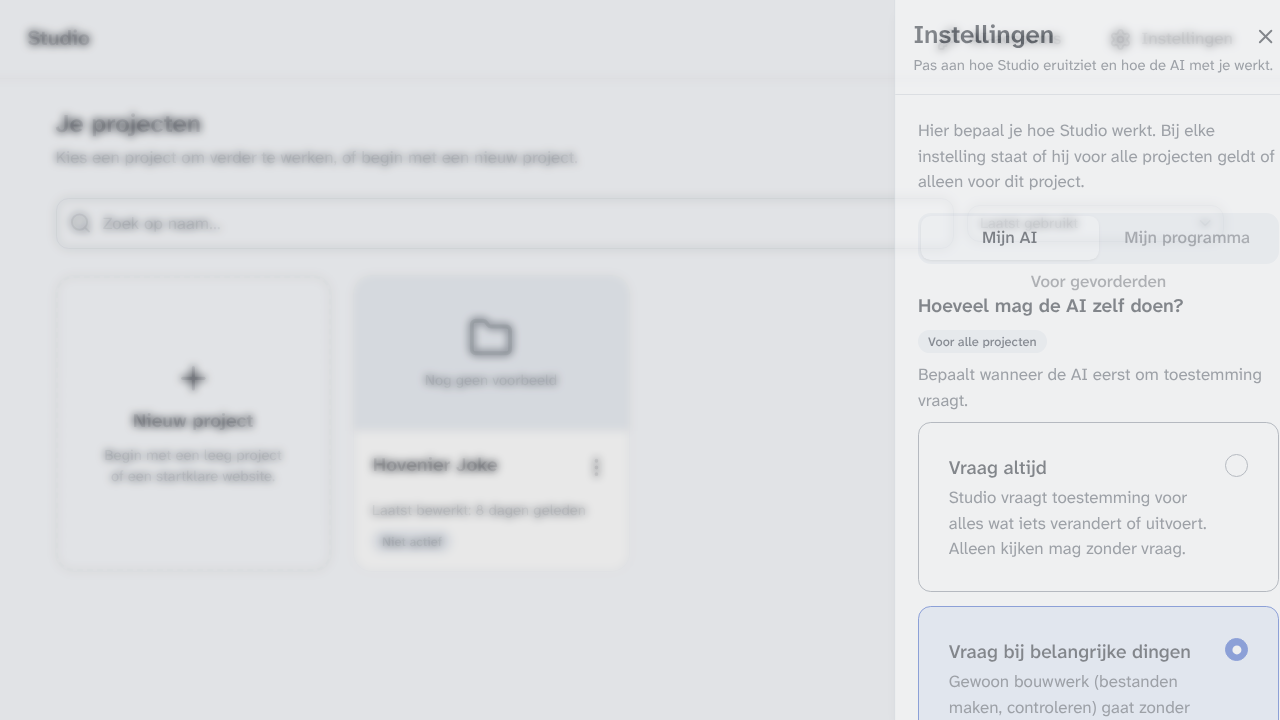
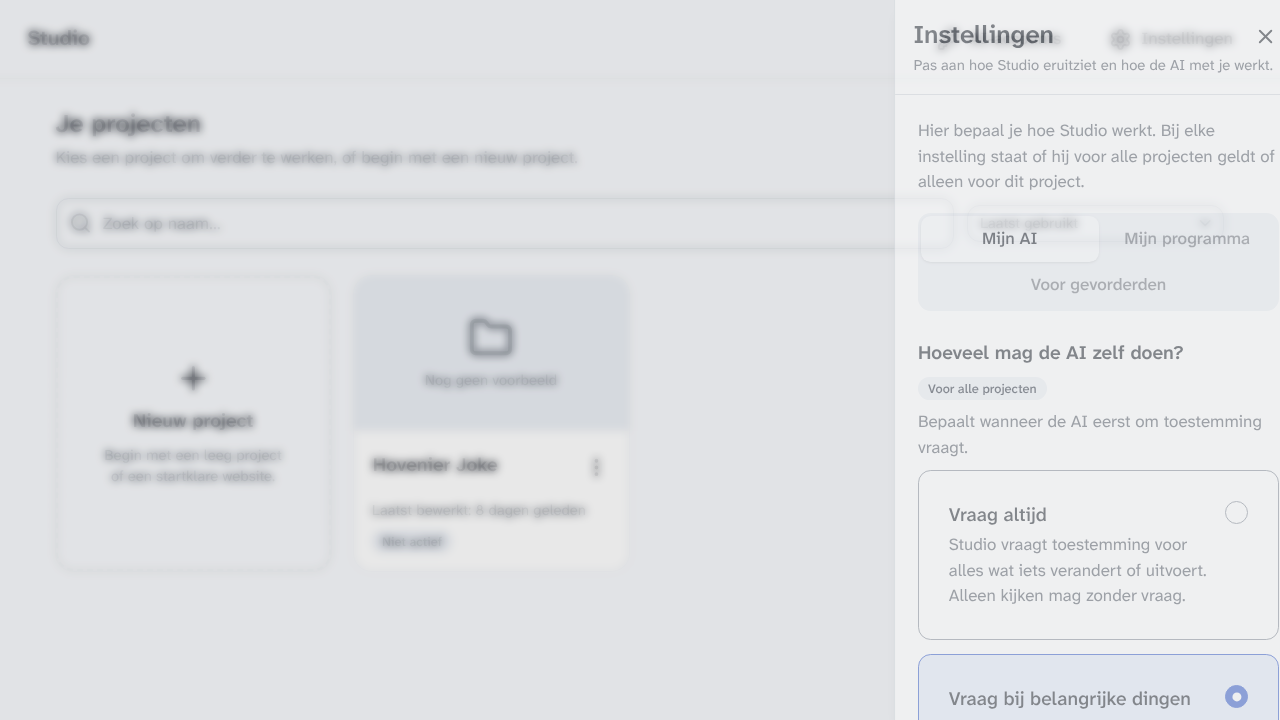
Koppelingen en Supabase: echte-app-controle (screenshots), netwerkfout via proxy als geen internet, lege regel voor nieuwe kop in PROJECT.md, dialoog scrolt op kleine schermen, resultaat in docs/koppelingen.md
Claude-Session: https://claude.ai/code/session_01EQqqEgtdBb6TXts6tMLwZj

Changed region(s): [[0.7188, 0.3667, 1.0, 0.8556], [0.7188, 0.8861, 1.0, 1.0], [0.7812, 0.3056, 0.8125, 0.3361]]

diff --git a/src/components/app/connect/VerbindDialoog.tsx b/src/components/app/connect/VerbindDialoog.tsx
@@ -102,7 +102,7 @@ function Wizard({ id, onClose, onConnected, reeks }: Props) {
 
   return (
     <Dialog open onOpenChange={(o) => !o && sluit()}>
-      <DialogContent className="max-w-lg" data-testid={`verbind-dialoog-${id}`}>
+      <DialogContent className="max-h-[90vh] max-w-lg overflow-y-auto" data-testid={`verbind-dialoog-${id}`}>
         {reeks && (
           <div data-testid="reeks-voortgang" className="space-y-1">
             <p className="text-sm font-semibold">{t("koppelingen.overzicht.voortgang", { nu: reeks.nu, totaal: reeks.totaal })}</p>

diff --git a/src-tauri/src/projectinfo.rs b/src-tauri/src/projectinfo.rs
@@ -537,7 +537,7 @@ fn section_set(dir: &Path, kop: &str, text: &str) -> Result<()> {
         v.join("\n") + "\n"
     } else {
         let blok = if text.is_empty() { String::new() } else { format!("{text}\n") };
-        format!("{}\n{kop}\n\n{blok}", md.trim_end())
+        format!("{}\n\n{kop}\n\n{blok}", md.trim_end())
     };
     fs::write(path, out)?;
     Ok(())
@@ -808,6 +808,10 @@ mod tests {
         let md = fs::read_to_string(o.path().join("PROJECT.md")).unwrap();
         assert!(md.contains("## Doel") && md.contains("Tuin") && md.contains("## Notities") && md.contains("## Gegevensopslag"));
         assert_eq!(md.matches("## Gegevensopslag").count(), 1);
+        let leeg = tempfile::tempdir().unwrap();
+        fs::write(leeg.path().join("PROJECT.md"), "# P\n\n- punt\n").unwrap();
+        storage_set(leeg.path(), "lokaal").unwrap();
+        assert!(fs::read_to_string(leeg.path().join("PROJECT.md")).unwrap().contains("- punt\n\n## Gegevensopslag"), "een lege regel voor de nieuwe kop");
         assert!(storage_set(o.path(), "anders").is_err());
         description_set(d.path(), "  Een site voor mijn tuinbedrijf.  ").unwrap();
         assert_eq!(description_get(d.path()), "Een site voor mijn tuinbedrijf.");

diff --git a/src-tauri/src/connect/http.rs b/src-tauri/src/connect/http.rs
@@ -93,7 +93,7 @@ impl UreqHttp {
 fn map_err(e: ureq::Error) -> ConnectError {
     match e {
         ureq::Error::Timeout(_) => ConnectError::Timeout,
-        ureq::Error::HostNotFound | ureq::Error::ConnectionFailed | ureq::Error::Io(_) => ConnectError::Offline,
+        ureq::Error::HostNotFound | ureq::Error::ConnectionFailed | ureq::Error::ConnectProxyFailed(_) | ureq::Error::Io(_) => ConnectError::Offline,
         _ => ConnectError::Unexpected,
     }
 }

diff --git a/docs/koppelingen.md b/docs/koppelingen.md
@@ -60,3 +60,24 @@ Voor **Vercel**, **Supabase**: niets registreren (gebruikers plakken een eigen t
 - Geen eigen server of proxy voor tokenuitwisseling.
 - Geen client-geheim in de app.
 - Geen OAuth voor Supabase en Vercel (zie hierboven).
+
+---
+
+# Resultaat: wat er is gebouwd (2026-11-18)
+
+## Welke methode per dienst werkt
+| Dienst | Methode nu | Waarom |
+|---|---|---|
+| **GitHub** | **Apparaatcode** (`oauth_device`) zodra het client-ID in `config/koppelingen.json` staat; anders **sleutel plakken** | geen geheim nodig. Dit is de enige dienst met echte OAuth. |
+| **Vercel** | **Sleutel plakken** | "Sign in with Vercel" vraagt een client-geheim en geeft geen rechten voor projecten of deployments |
+| **Supabase** | **Sleutel plakken** | OAuth voor de Management API vraagt een client-geheim; zonder geheim niet bevestigd |
+De strategie **OAuth met PKCE en terugkeer op 127.0.0.1** (`oauth_loopback_pkce`) is gebouwd en getest (één terugkeer, `state`-controle, sluit na gebruik of na 5 minuten) maar wordt nu door geen enkele dienst gebruikt.
+
+## Wat er staat
+- **Raamwerk** (`src-tauri/src/connect/`): provider-interface, kluis (OS-keychain, per dienst gescheiden), HTTP met vaste hostlijst (`api.github.com`, `github.com`, `api.vercel.com`, `api.supabase.com`), device flow, PKCE-loopback, verversen op de achtergrond (elke minuut; mislukt het dan "verlopen" met "Opnieuw verbinden"), status in SQLite (`connections`, zonder geheimen).
+- **Knop** (`VerbindKnop`): niet gekoppeld, bezig, gekoppeld (accountnaam met ✓ en menu met testen, opnieuw verbinden, ontkoppelen) en verlopen. Staat bij Online zetten (Vercel), Wat je app onthoudt (Supabase) en Eerdere versies (GitHub), en in Instellingen > Mijn programma > Koppelingen met "Alles testen" en "Alles verbinden" (met Overslaan en voortgang). Statusbolletjes via de Status-service.
+- **AI**: MCP-tools `koppelingen_status` (alleen gekoppeld ja/nee en werkt ja/nee, nooit sleutels of accountnamen) en `koppeling_voorstellen` (een kaartje met de knop in het gesprek; de gebruiker verbindt zelf).
+- **Ontkoppelen**: sleutel uit de kluis; GitHub en Vercel laten intrekken zonder geheim of token-ID niet toe, dus Studio legt uit hoe en geeft een link.
+
+## Wat ik zelf niet kon controleren
+Met een echte GitHub-app, een echt GitHub-, Vercel- of Supabase-account: de apparaatcode, de echte antwoordvelden van de diensten en "verlopen simuleren". In de echte app (Xvfb, zonder keychain en met een geblokkeerd netwerk) heb ik de knop, de wizard en de foutmelding gezien.
